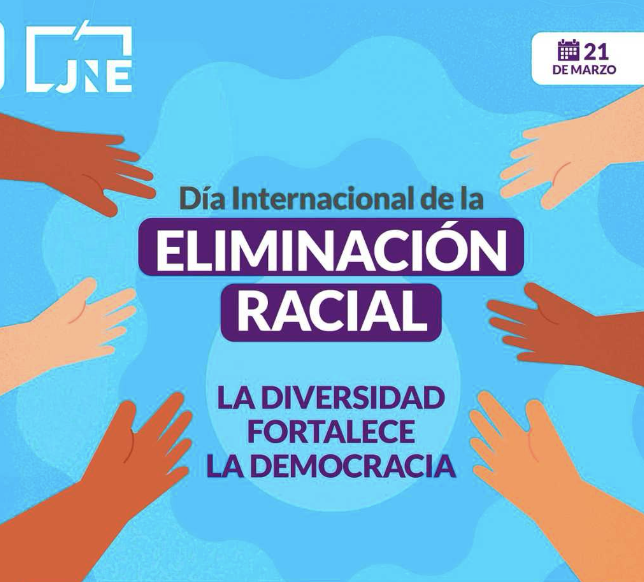
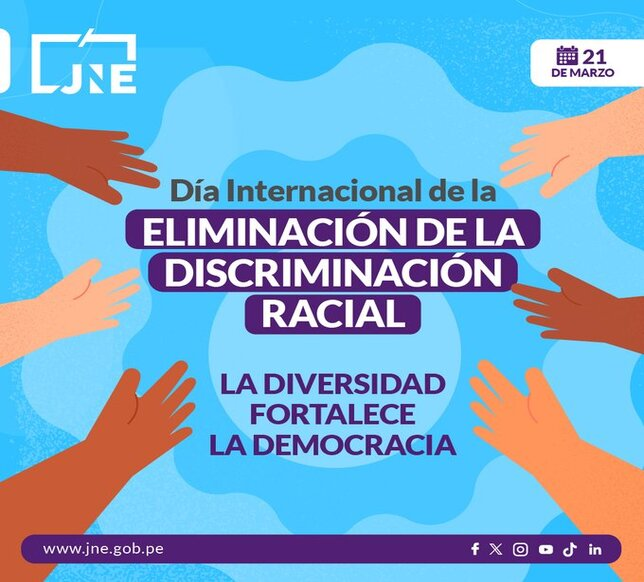
upd 2.0

diff --git a/novedades.html b/novedades.html
@@ -126,8 +126,8 @@
                                     <span class="icon-time"></span> 21 de marzo 2024
                                 </div>
                             </div>
-                            <div class="oi-title-noticia">
-                                Día Internacional de la Eliminación Racial
+                            <div class="oi-title-noticia">                                
+                                Día Internacional de la Eliminación de la Discriminación Racial
                             </div>
                             <div class="oi-resumen-noticia">
                                 Es necesario reflexionar para promover espacios inclusivos libres de prejuicios.
@@ -135,7 +135,7 @@
                             </div>
                             <div class="oi-content-enlace-noticia">
                                 <div class="oi-content-border">
-                                    <h1 class="color-white">                             Día Internacional de la Eliminación Racial
+                                    <h1 class="color-white">                             Día Internacional de la Eliminación de la Discriminación Racial
                                     </h1>
                                     <a href="novedades/jne_eliminacion_racial.html"
                                         class="oi-btn oi-btn--border-white"> Ver noticia <span

diff --git a/index.html b/index.html
@@ -254,8 +254,8 @@
                                 <span class="icon-time"></span> 21 de marzo 2024
                             </div>
                         </div>
-                        <div class="oi-title-noticia">
-                            Día internacional de la eliminación racial
+                        <div class="oi-title-noticia">                            
+                            Día Internacional de la Eliminación de la Discriminación Racial
                         </div>
                         <div class="oi-resumen-noticia">
                             Es necesario reflexionar para promover espacios inclusivos libres de prejuicios.
@@ -263,7 +263,7 @@
                         <div class="oi-content-enlace-noticia">
                             <div class="oi-content-border">
                                 <h1 class="color-white">
-                                    Día Internacional de la Eliminación Racial
+                                    Día Internacional de la Eliminación de la Discriminación Racial
                                 </h1>
                                 <a href="novedades/jne_eliminacion_racial.html" class="oi-btn oi-btn--border-white"> Ver noticia <span class="icon-right-arrow-1"></span></a>
                             </div>

diff --git a/novedades/jne_eliminacion_racial.html b/novedades/jne_eliminacion_racial.html
@@ -111,7 +111,7 @@
                         <div class="col-lg-9">
                             <div class="oi-bloque-info pb50 pt30">
                                 <div class="oi-title-detalle-noticia">
-                                    Día Internacional de la Eliminación Racial
+                                    Día Internacional de la Eliminación de la Discriminación Racial
                                 </div>
                                 <div class="oi-fecha-noticia">
                                     <span class="icon-time"></span> 21 de marzo 2024
